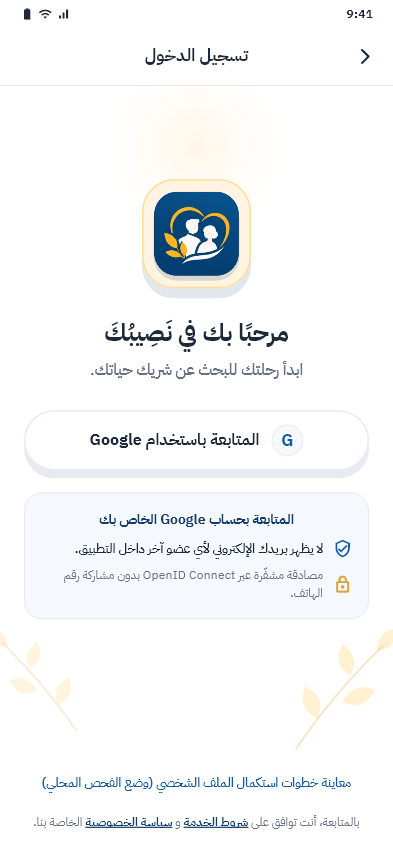
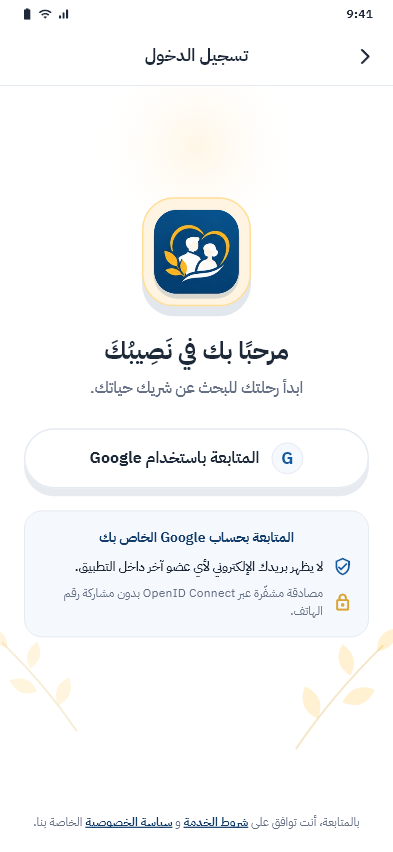
feat(phase-13c): complete Google Sign-In, environment configuration, Coolify staging & Android integration

diff --git a/mobile/lib/core/config/app_environment.dart b/mobile/lib/core/config/app_environment.dart
@@ -30,6 +30,7 @@ class AppEnvironmentConfig {
   final String apiBaseUrl;
   final String reverbWsUrl;
   final String googleServerClientId;
+  final String googleAndroidClientId;
   final String androidPackageName;
 
   const AppEnvironmentConfig({
@@ -37,23 +38,31 @@ class AppEnvironmentConfig {
     required this.apiBaseUrl,
     required this.reverbWsUrl,
     required this.googleServerClientId,
+    this.googleAndroidClientId = '',
     this.androidPackageName = 'com.naseebak.app',
   });
 
   /// Resolves build-time `--dart-define` configuration without hardcoding
   /// localhost or private development IPs in staging/production builds.
   factory AppEnvironmentConfig.fromBuildDefines() {
-    const rawEnv = String.fromEnvironment('APP_ENV', defaultValue: 'production');
+    const rawEnv = String.fromEnvironment('APP_ENV', defaultValue: 'staging');
     final env = NaseebakEnvironment.fromName(rawEnv);
 
     const definedApiUrl = String.fromEnvironment('API_BASE_URL', defaultValue: '');
     const definedWsUrl = String.fromEnvironment('REVERB_WS_URL', defaultValue: '');
+    const definedWsHost = String.fromEnvironment('REVERB_WS_HOST', defaultValue: '');
+    const definedWsScheme = String.fromEnvironment('REVERB_WS_SCHEME', defaultValue: 'wss');
+    const definedWsPort = String.fromEnvironment('REVERB_WS_PORT', defaultValue: '443');
     const definedReverbKey = String.fromEnvironment(
       'REVERB_APP_KEY',
-      defaultValue: 'naseebak-reverb-key',
+      defaultValue: 'nsb_stg_key_sandbox',
     );
-    const definedGoogleClientId = String.fromEnvironment(
+    const definedGoogleServerClientId = String.fromEnvironment(
       'GOOGLE_SERVER_CLIENT_ID',
+      defaultValue: '',
+    );
+    const definedGoogleAndroidClientId = String.fromEnvironment(
+      'GOOGLE_ANDROID_CLIENT_ID',
       defaultValue: '',
     );
     const definedPackage = String.fromEnvironment(
@@ -65,26 +74,49 @@ class AppEnvironmentConfig {
         ? definedApiUrl
         : switch (env) {
             NaseebakEnvironment.development => 'https://dev-api.example.com/api/v1',
-            NaseebakEnvironment.staging => 'https://staging-api.example.com/api/v1',
-            NaseebakEnvironment.production => 'https://api.example.com/api/v1',
+            NaseebakEnvironment.staging => 'https://naseebak-api.hazem.my/api/v1',
+            NaseebakEnvironment.production => 'https://naseebak-api.hazem.my/api/v1',
           };
 
     final resolvedWsUrl = definedWsUrl.isNotEmpty
         ? definedWsUrl
+        : (definedWsHost.isNotEmpty
+            ? '$definedWsScheme://$definedWsHost${definedWsPort != '443' && definedWsPort != '80' ? ':$definedWsPort' : ''}/app/$definedReverbKey?protocol=7&client=flutter&version=1.0'
+            : switch (env) {
+                NaseebakEnvironment.development =>
+                  'wss://dev-api.example.com/app/$definedReverbKey?protocol=7&client=flutter&version=1.0',
+                NaseebakEnvironment.staging =>
+                  'wss://naseebak-ws.hazem.my/app/$definedReverbKey?protocol=7&client=flutter&version=1.0',
+                NaseebakEnvironment.production =>
+                  'wss://naseebak-ws.hazem.my/app/$definedReverbKey?protocol=7&client=flutter&version=1.0',
+              });
+
+    final resolvedServerClientId = definedGoogleServerClientId.isNotEmpty
+        ? definedGoogleServerClientId
         : switch (env) {
-            NaseebakEnvironment.development =>
-              'wss://dev-api.example.com/app/$definedReverbKey?protocol=7&client=flutter&version=1.0',
+            NaseebakEnvironment.development => '',
             NaseebakEnvironment.staging =>
-              'wss://staging-api.example.com/app/$definedReverbKey?protocol=7&client=flutter&version=1.0',
+              '520721691788-4ngp8rrm7g4foja1f3ql24bv2apdgcoo.apps.googleusercontent.com',
             NaseebakEnvironment.production =>
-              'wss://api.example.com/app/$definedReverbKey?protocol=7&client=flutter&version=1.0',
+              '520721691788-4ngp8rrm7g4foja1f3ql24bv2apdgcoo.apps.googleusercontent.com',
+          };
+
+    final resolvedAndroidClientId = definedGoogleAndroidClientId.isNotEmpty
+        ? definedGoogleAndroidClientId
+        : switch (env) {
+            NaseebakEnvironment.development => '',
+            NaseebakEnvironment.staging =>
+              '520721691788-0fki6oqjcsjtk6g9qbo2ean3fj3cpeq2.apps.googleusercontent.com',
+            NaseebakEnvironment.production =>
+              '520721691788-0fki6oqjcsjtk6g9qbo2ean3fj3cpeq2.apps.googleusercontent.com',
           };
 
     return AppEnvironmentConfig(
       environment: env,
       apiBaseUrl: resolvedApiUrl,
       reverbWsUrl: resolvedWsUrl,
-      googleServerClientId: definedGoogleClientId,
+      googleServerClientId: resolvedServerClientId,
+      googleAndroidClientId: resolvedAndroidClientId,
       androidPackageName: definedPackage,
     );
   }

diff --git a/mobile/lib/features/auth/presentation/screens/google_sign_in_screen.dart b/mobile/lib/features/auth/presentation/screens/google_sign_in_screen.dart
@@ -326,28 +326,6 @@ class GoogleSignInScreen extends ConsumerWidget {
 
                         const Spacer(flex: 2),
 
-                        TextButton(
-                          key: const Key('preview_profile_flow_btn'),
-                          onPressed: authState.isLoading
-                              ? null
-                              : () {
-                                  ref
-                                      .read(authControllerProvider.notifier)
-                                      .enterProfileRegistrationPreview();
-                                },
-                          child: const Text(
-                            'معاينة خطوات استكمال الملف الشخصي (وضع الفحص المحلي)',
-                            textAlign: TextAlign.center,
-                            style: TextStyle(
-                              fontFamily: NaseebakTypography.fontFamily,
-                              fontSize: 12.5,
-                              color: AppColors.primaryBlue,
-                              fontWeight: FontWeight.w600,
-                            ),
-                          ),
-                        ),
-                        const SizedBox(height: 6),
-
                         // Privacy Policy & Terms of Service Notice
                         RichText(
                           textAlign: TextAlign.center,

diff --git a/mobile/lib/features/auth/presentation/providers/auth_provider.dart b/mobile/lib/features/auth/presentation/providers/auth_provider.dart
@@ -110,14 +110,16 @@ class AuthController extends StateNotifier<AuthState> {
     }
   }
 
-  /// Allows moving to Profile Registration Flow in local preview/testing mode
-  /// when Google OAuth credentials are not yet provisioned, while clearly labeling it.
-  void enterProfileRegistrationPreview() {
+  /// Navigates authenticated users with incomplete profiles to the profile completion flow.
+  void navigateToCompleteProfile() {
     state = state.copyWith(
       destination: AuthDestination.completeProfile,
       clearError: true,
     );
   }
+
+  @Deprecated('Use navigateToCompleteProfile instead')
+  void enterProfileRegistrationPreview() => navigateToCompleteProfile();
 
   void markProfileCompleted() {
     state = state.copyWith(

diff --git a/mobile/lib/core/constants/api_endpoints.dart b/mobile/lib/core/constants/api_endpoints.dart
@@ -14,10 +14,12 @@ class ApiEndpoints {
   static String get reverbWsUrl => environmentConfig.reverbWsUrl;
 
   /// Server Web Client ID used by GoogleSignIn to issue verifiable ID tokens
-  static const String googleServerClientId = String.fromEnvironment(
-    'GOOGLE_SERVER_CLIENT_ID',
-    defaultValue: '',
-  );
+  static String get googleServerClientId =>
+      environmentConfig.googleServerClientId;
+
+  /// Android OAuth Client ID
+  static String get googleAndroidClientId =>
+      environmentConfig.googleAndroidClientId;
 
   /// Health check endpoint
   static const String health = '/health';

diff --git a/mobile/lib/features/profile/presentation/screens/my_profile_screen.dart b/mobile/lib/features/profile/presentation/screens/my_profile_screen.dart
@@ -87,7 +87,7 @@ class _MyProfileScreenState extends ConsumerState<MyProfileScreen> {
                       onCompleteProfile: () {
                         ref
                             .read(authControllerProvider.notifier)
-                            .enterProfileRegistrationPreview();
+                            .navigateToCompleteProfile();
                       },
                     );
                   }

diff --git a/backend/config/services.php b/backend/config/services.php
@@ -1,0 +1,20 @@
+<?php
+
+return [
+
+    /*
+    |--------------------------------------------------------------------------
+    | Third Party Services
+    |--------------------------------------------------------------------------
+    |
+    | This file is for storing the credentials for third party services such
+    | as Google OAuth, FCM, etc.
+    |
+    */
+
+    'google' => [
+        'android_client_id' => env('GOOGLE_ANDROID_CLIENT_ID', '520721691788-0fki6oqjcsjtk6g9qbo2ean3fj3cpeq2.apps.googleusercontent.com'),
+        'web_client_id' => env('GOOGLE_WEB_CLIENT_ID', '520721691788-4ngp8rrm7g4foja1f3ql24bv2apdgcoo.apps.googleusercontent.com'),
+    ],
+
+];

diff --git a/backend/config/naseebak.php b/backend/config/naseebak.php
@@ -11,8 +11,8 @@ return [
     'minimum_age' => 18,
 
     'google_auth' => [
-        'android_client_id' => env('GOOGLE_ANDROID_CLIENT_ID'),
-        'web_client_id' => env('GOOGLE_WEB_CLIENT_ID'),
+        'android_client_id' => env('GOOGLE_ANDROID_CLIENT_ID', '520721691788-0fki6oqjcsjtk6g9qbo2ean3fj3cpeq2.apps.googleusercontent.com'),
+        'web_client_id' => env('GOOGLE_WEB_CLIENT_ID', '520721691788-4ngp8rrm7g4foja1f3ql24bv2apdgcoo.apps.googleusercontent.com'),
         'allowed_issuers' => [
             'accounts.google.com',
             'https://accounts.google.com',
